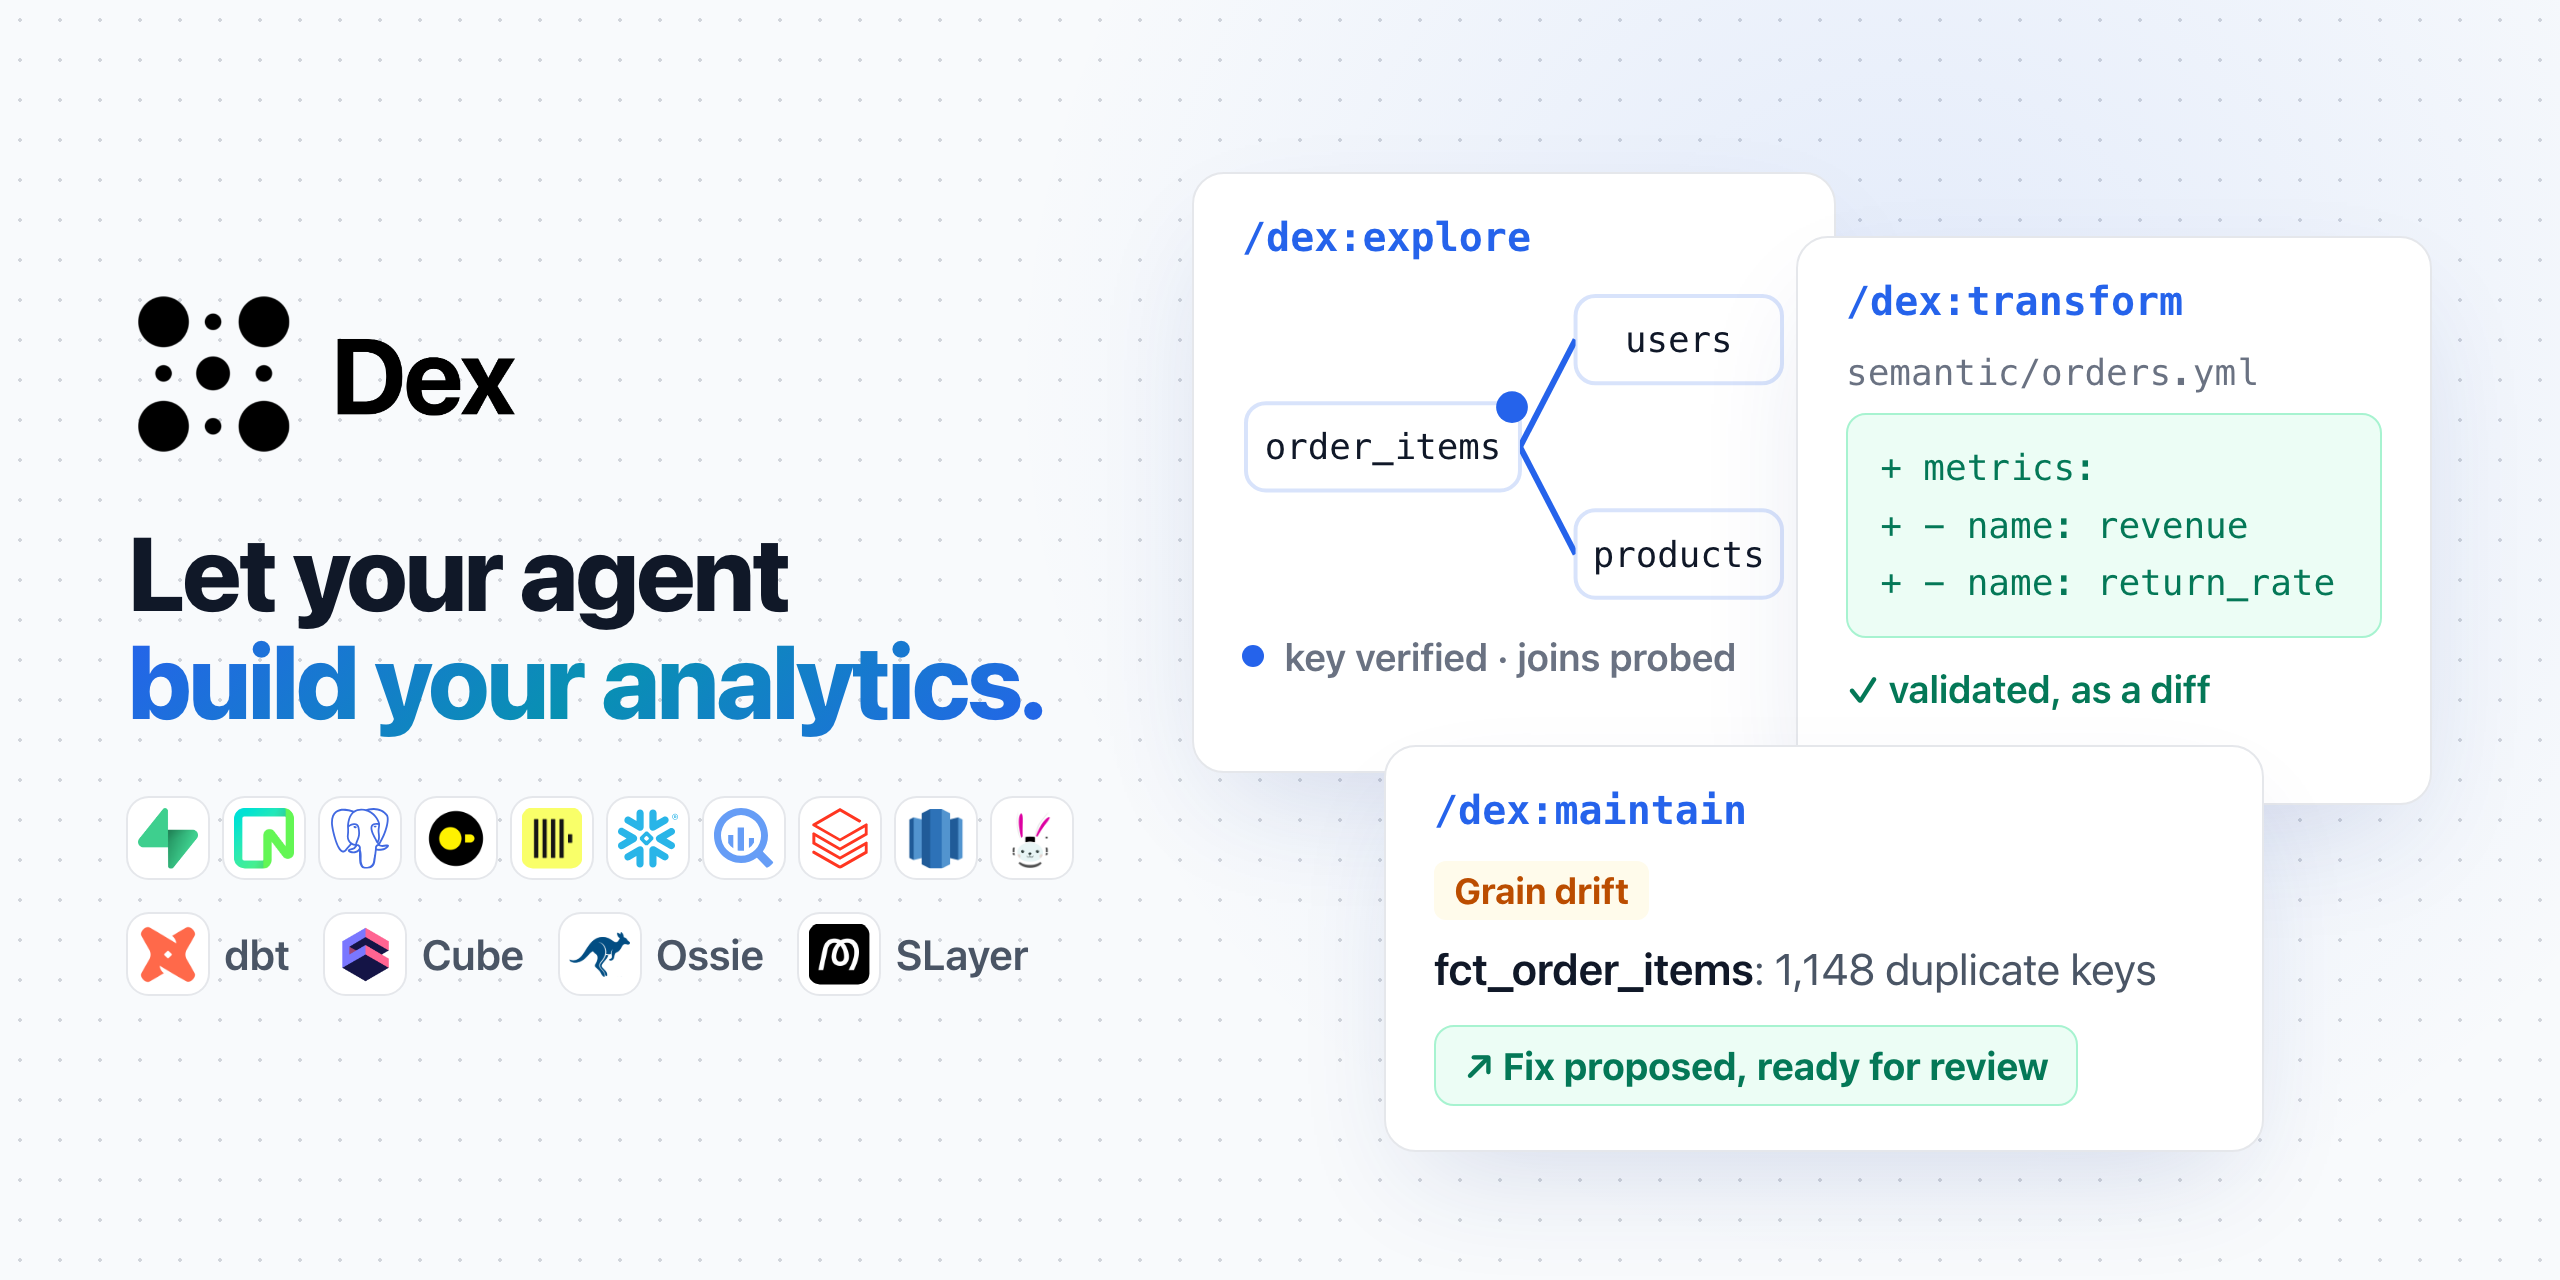
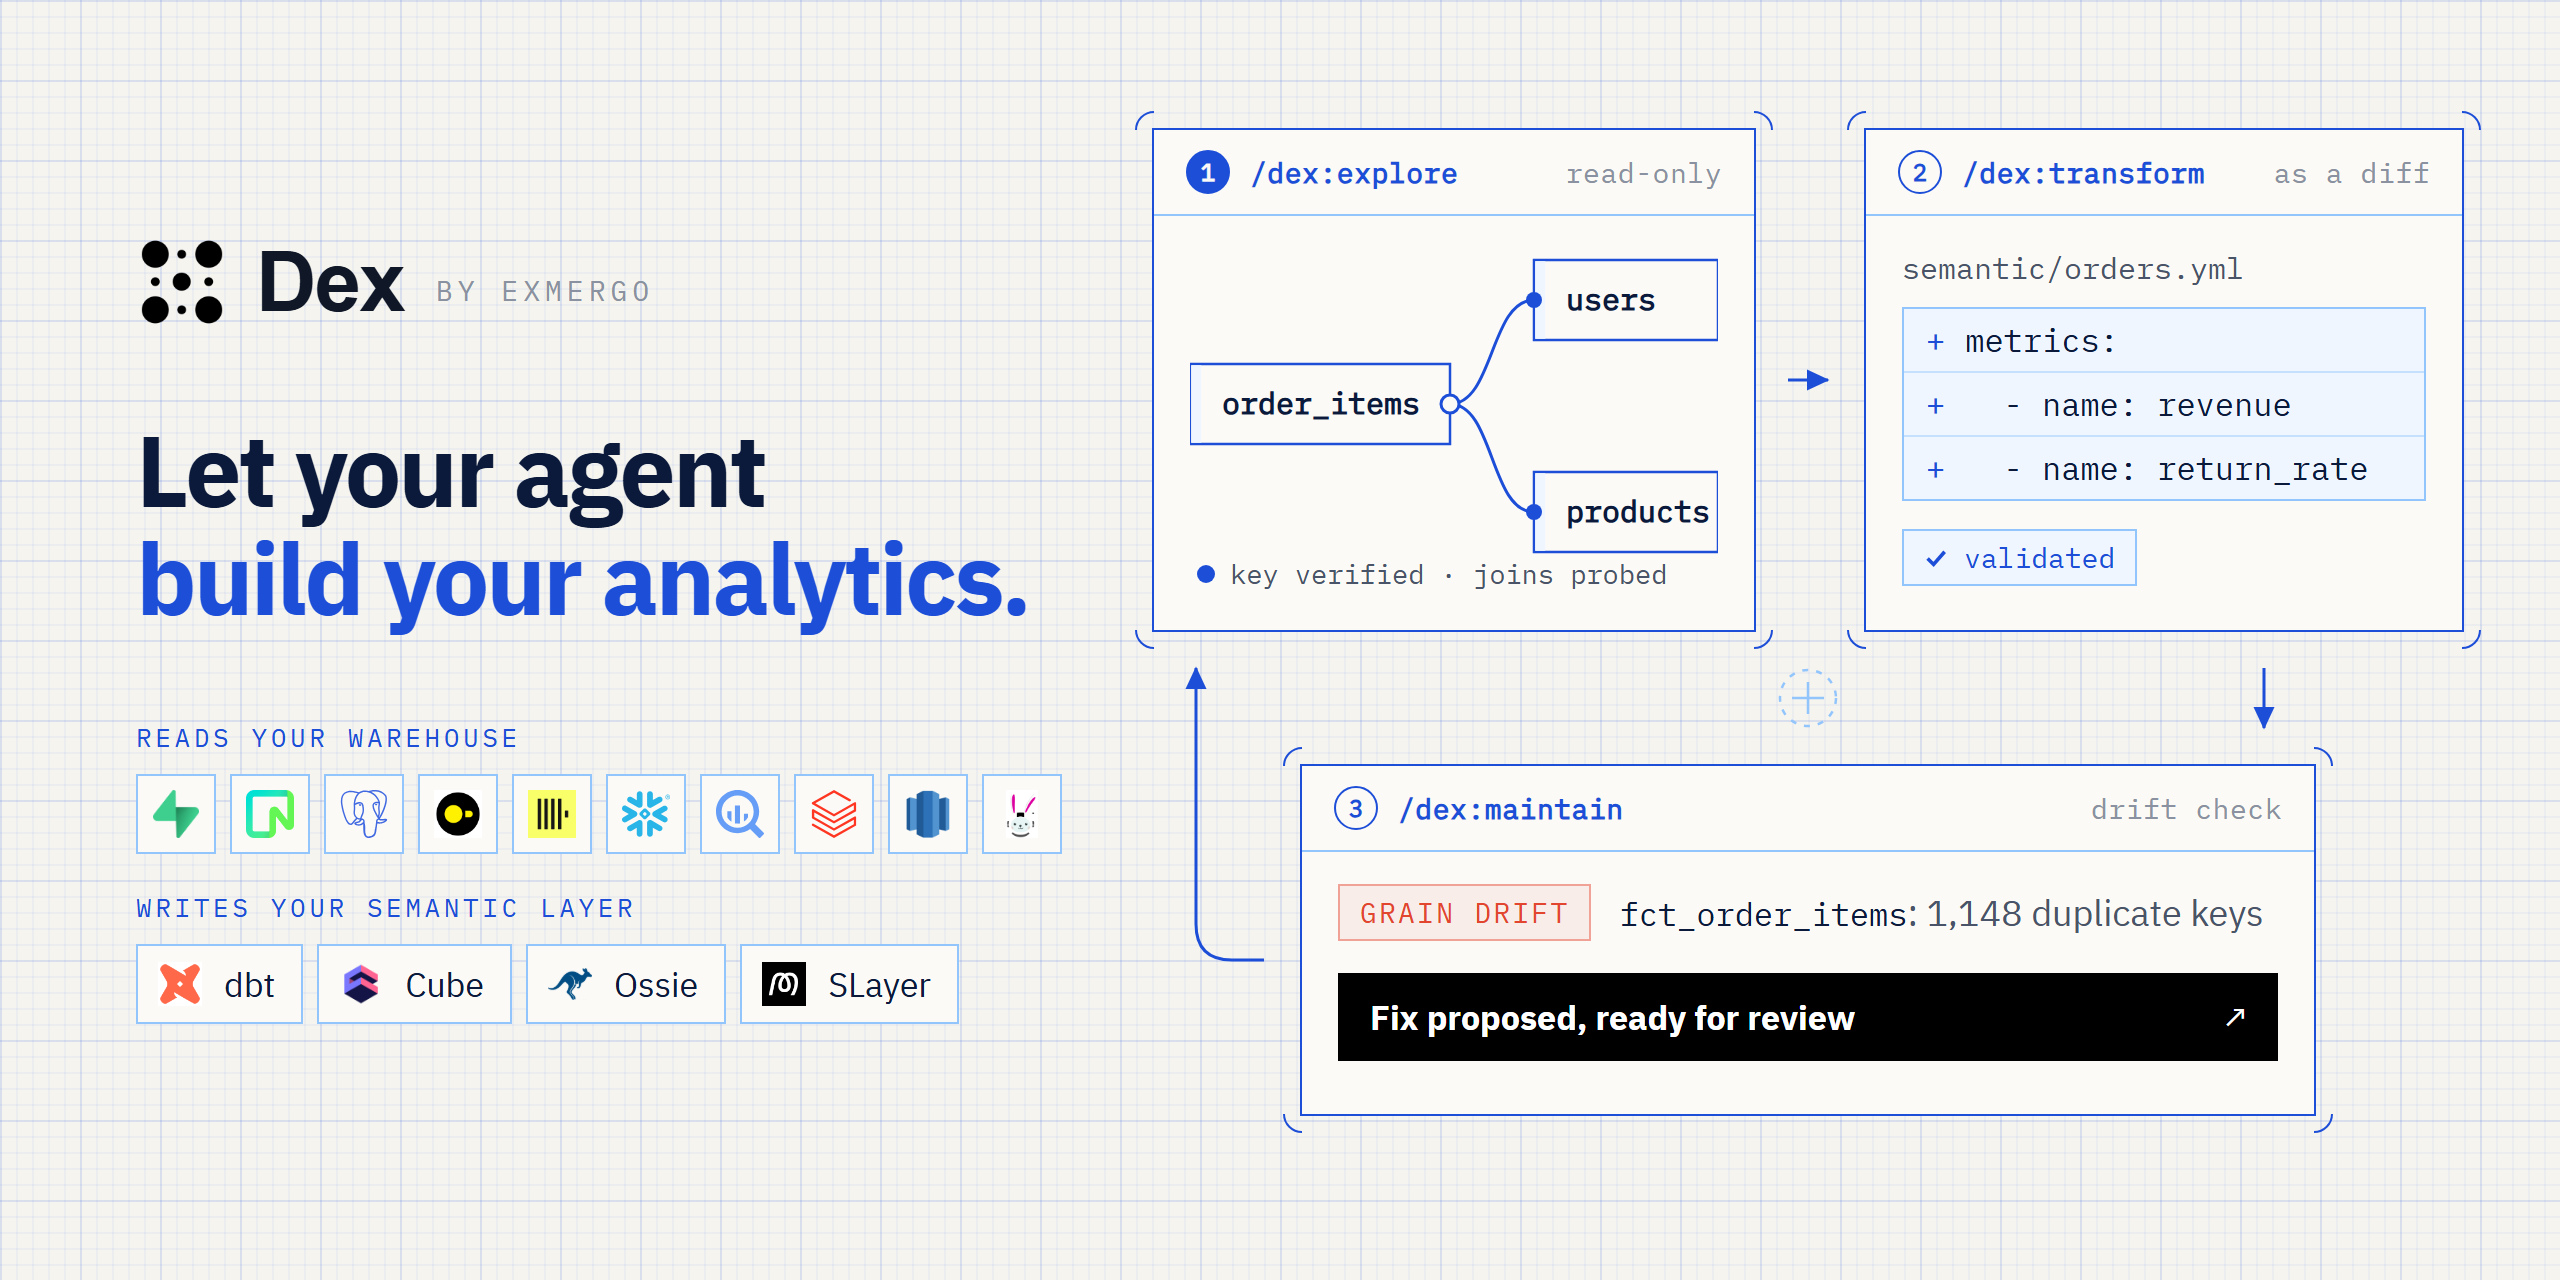
Redraw the README images in the trydex.ai style (#1263)
* Redraw the README images in the trydex.ai style

* add "how it works" image

diff --git a/README.md b/README.md
@@ -162,35 +162,10 @@ type contradicts their content, and two designed PII false positives. See the
 
 ## How it works
 
-```mermaid
-%%{init: {"theme": "base", "flowchart": {"curve": "basis", "nodeSpacing": 40, "rankSpacing": 56, "padding": 14}, "themeVariables": {"lineColor": "#51a2ff", "edgeLabelBackground": "#020618", "textColor": "#51a2ff", "fontSize": "14px"}, "themeCSS": ".edgeLabel p { padding: 6px 12px; margin: 0; border-radius: 6px; background: #020618; } .labelBkg { background: none !important; }"}}%%
-flowchart TB
-  agent["<b>Your coding agent</b><br/>Claude Code, Codex, any skills host"]
-  skills["<b>Dex skills</b><br/>explore · transform · maintain"]
-  engine["<b>exmergo-dex-core</b><br/>engine + guardrails"]
-  db[("<b>Your data</b><br/>database, warehouse,<br/>or SQL endpoint")]
-  repo["<b>Your repository</b><br/>dbt project +<br/>semantic layer"]
-  cache["<b>.dex/</b><br/>cache + snapshot"]
-
-  agent -->|"runs a command"| skills
-  skills --> engine
-  engine -->|"SELECT-only, cost-capped<br/>dbt builds on dev only"| db
-  engine -->|"plans as<br/>reviewable diffs"| repo
-  engine -->|"one sanitized<br/>JSON envelope"| agent
-  engine <--> cache
-
-  linkStyle default stroke:#51a2ff,stroke-width:1.5px,color:#51a2ff
-
-  classDef host fill:#020618,stroke:#51a2ff,stroke-width:1.5px,color:#ffffff
-  classDef core fill:#2563eb,stroke:#51a2ff,stroke-width:2px,color:#ffffff
-  classDef yours fill:#020618,stroke:#22d3ee,stroke-width:1.5px,color:#ffffff
-  classDef state fill:#020618,stroke:#22d3ee,stroke-width:1.5px,stroke-dasharray:5 4,color:#cad5e2
-
-  class agent,skills host
-  class engine core
-  class db,repo yours
-  class cache state
-```
+<picture>
+  <source media="(prefers-color-scheme: dark)" srcset="assets/readme/how-it-works-dark.png" />
+  <img width="760" height="630" alt="How it works: your coding agent runs a Dex skill, which calls the exmergo-dex-core engine; the engine queries your data (SELECT-only, cost-capped, dbt builds on dev only), writes plans as reviewable diffs to your repository, keeps its cache in .dex/, and returns one sanitized JSON envelope to the agent" src="assets/readme/how-it-works-light.png" />
+</picture>
 
 The skills connect your agent to the `exmergo-dex-core` engine, which holds the
 logic and guardrails behind a [small command contract](https://docs.exmergo.com/dex/reference/command-contract).
@@ -205,7 +180,10 @@ personal data, read and query the semantic layer, and map relationships as a
 Mermaid ER diagram. Exploration is read-only and needs no dbt project.
 [Skill](skills/explore/SKILL.md) · [methodology](https://docs.exmergo.com/dex/concepts/methodology) · [commands](https://docs.exmergo.com/dex/cli/explore)
 
-<img width="522" height="343" alt="Explore" src="https://github.com/user-attachments/assets/7f16b370-66ed-4596-ae01-041cf3db3525" />
+<picture>
+  <source media="(prefers-color-scheme: dark)" srcset="assets/readme/explore-dark.png" />
+  <img width="522" height="343" alt="Explore" src="assets/readme/explore-light.png" />
+</picture>
 
 ### Transform
 
@@ -215,7 +193,10 @@ native semantic layer without a dbt project. Review each stored plan before
 applying it, then build and verify on a dev target.
 [Skill](skills/transform/SKILL.md) · [what Dex writes](https://docs.exmergo.com/dex/concepts/dbt-project) · [commands](https://docs.exmergo.com/dex/cli/transform)
 
-<img width="504" height="271" alt="Transform" src="https://github.com/user-attachments/assets/fda40e48-b481-424c-adc7-d79c0ede346b" />
+<picture>
+  <source media="(prefers-color-scheme: dark)" srcset="assets/readme/transform-dark.png" />
+  <img width="504" height="271" alt="Transform" src="assets/readme/transform-light.png" />
+</picture>
 
 ### Maintain
 
@@ -225,7 +206,10 @@ the proposed edits. `maintain verify` also checks a project as it stands, with n
 baseline needed.
 [Skill](skills/maintain/SKILL.md) · [commands](https://docs.exmergo.com/dex/cli/maintain)
 
-<img width="484" height="344" alt="Maintain" src="https://github.com/user-attachments/assets/ff714eaf-f0b2-46d6-8a4b-c69791740f18" />
+<picture>
+  <source media="(prefers-color-scheme: dark)" srcset="assets/readme/maintain-dark.png" />
+  <img width="484" height="344" alt="Maintain" src="assets/readme/maintain-light.png" />
+</picture>
 
 > [!TIP]
 > **Give every agent in your repository the same procedure.**

diff --git a/assets/README.md b/assets/README.md
@@ -9,3 +9,16 @@ It is used for both the Codex composer icon and listing logo.
 `preview-dark.png` and `preview-light.png` are the README banner (the light one
 is served unless the reader's GitHub theme is dark) and the repository's
 social preview. Both are 2560 x 1280, GitHub's 1280 x 640 social card at 2x.
+
+They are drawn in the trydex.ai style and made from source in
+[exmergo/internal-marketing](https://github.com/exmergo/internal-marketing):
+`dex/github-preview.html`, captured as is for the light image and with
+`?theme=dark` (a blueprint) for the dark one.
+
+# README section images
+
+`readme/explore-*.png`, `readme/transform-*.png`, and `readme/maintain-*.png`
+illustrate the README's Explore, Transform, and Maintain sections, each in a
+light and a dark (blueprint) version for GitHub's two themes, at 2x the size
+the README shows them. Their sources are `dex/readme/*.html` in
+exmergo/internal-marketing.
